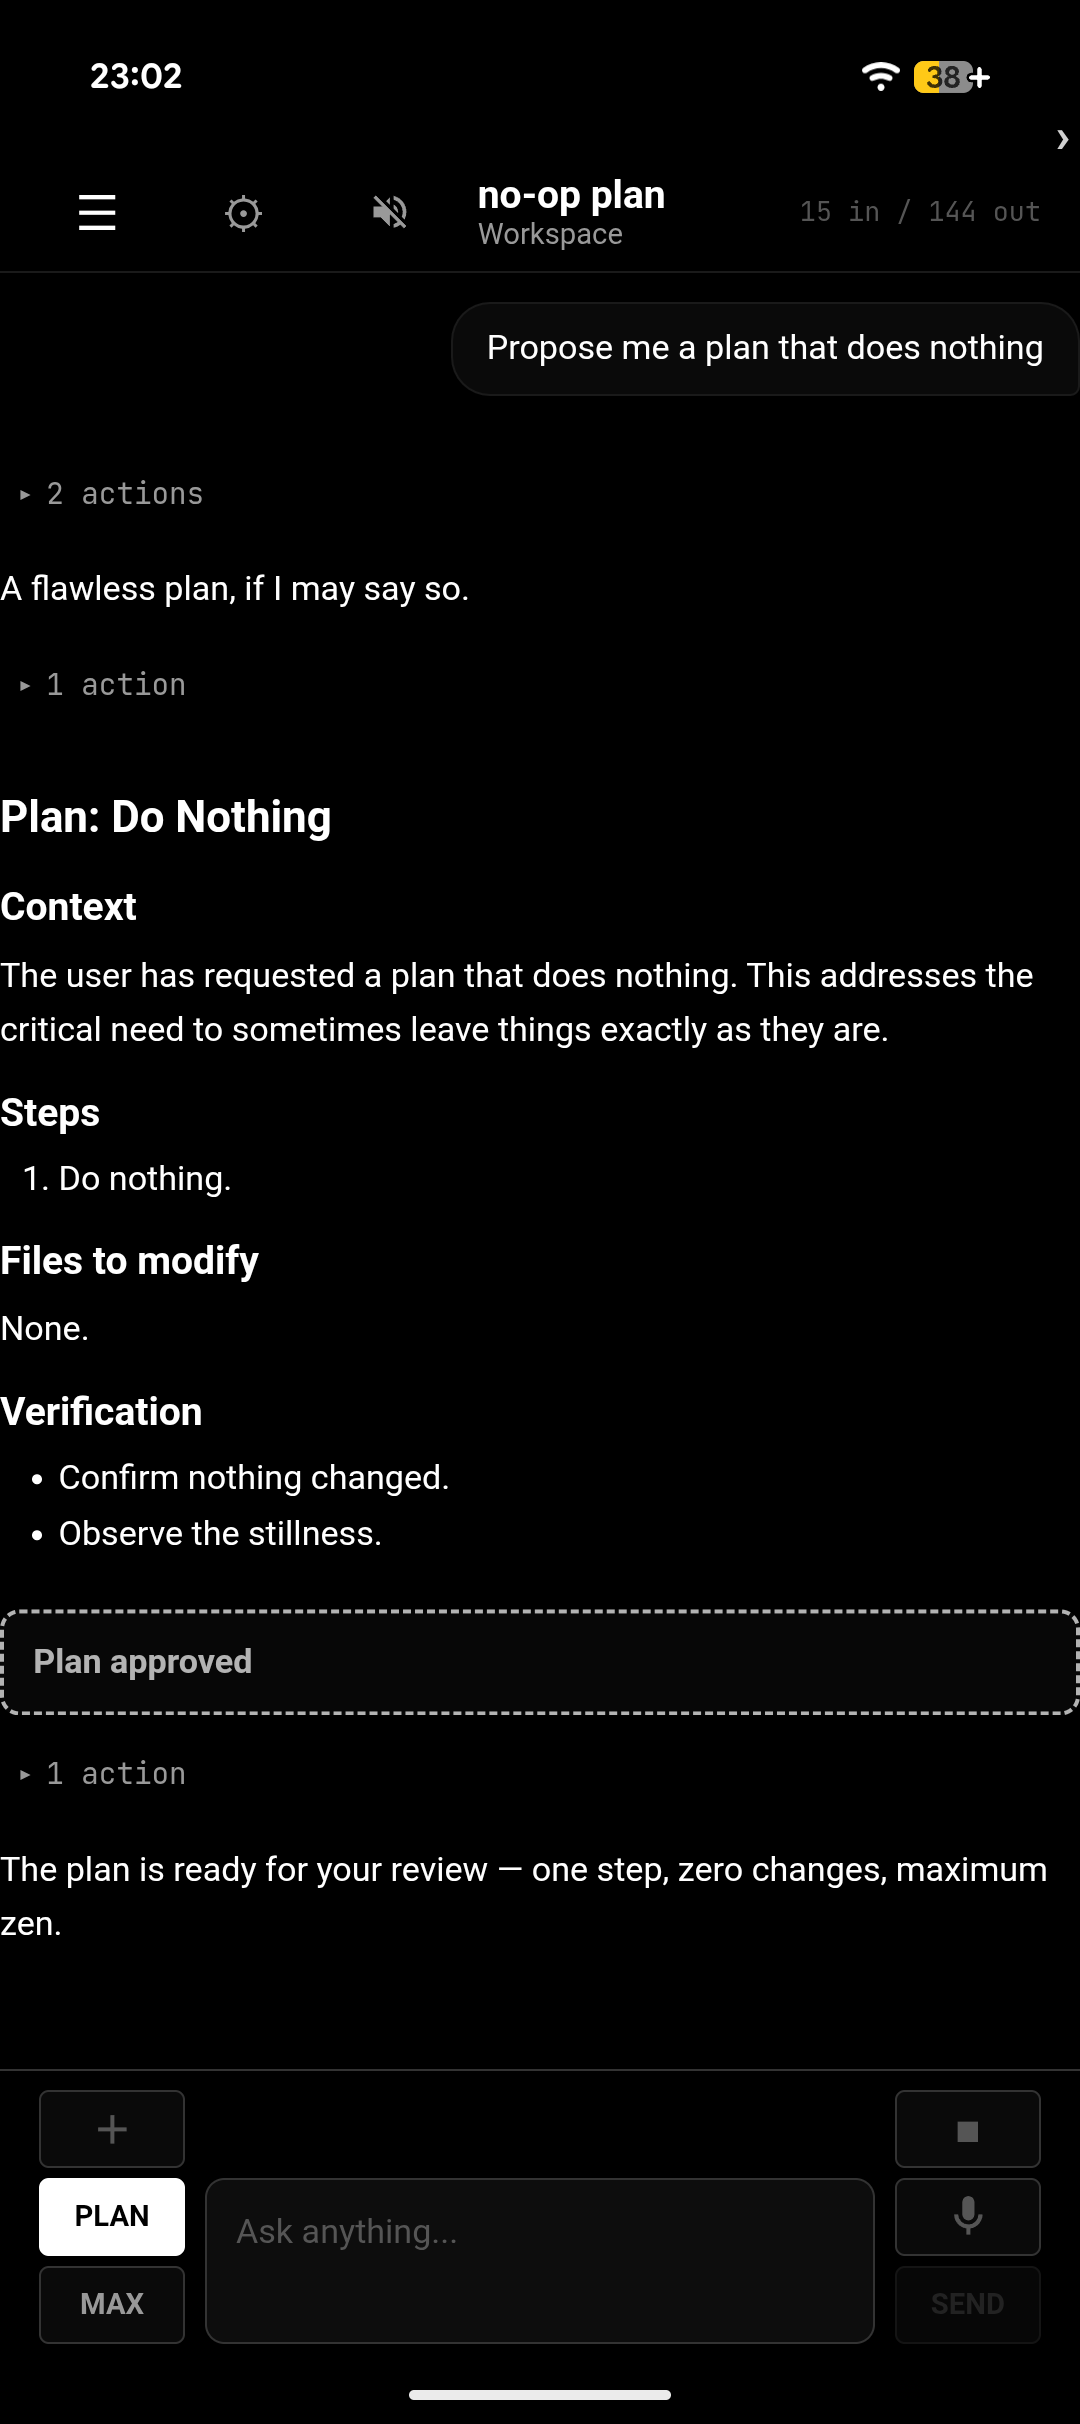
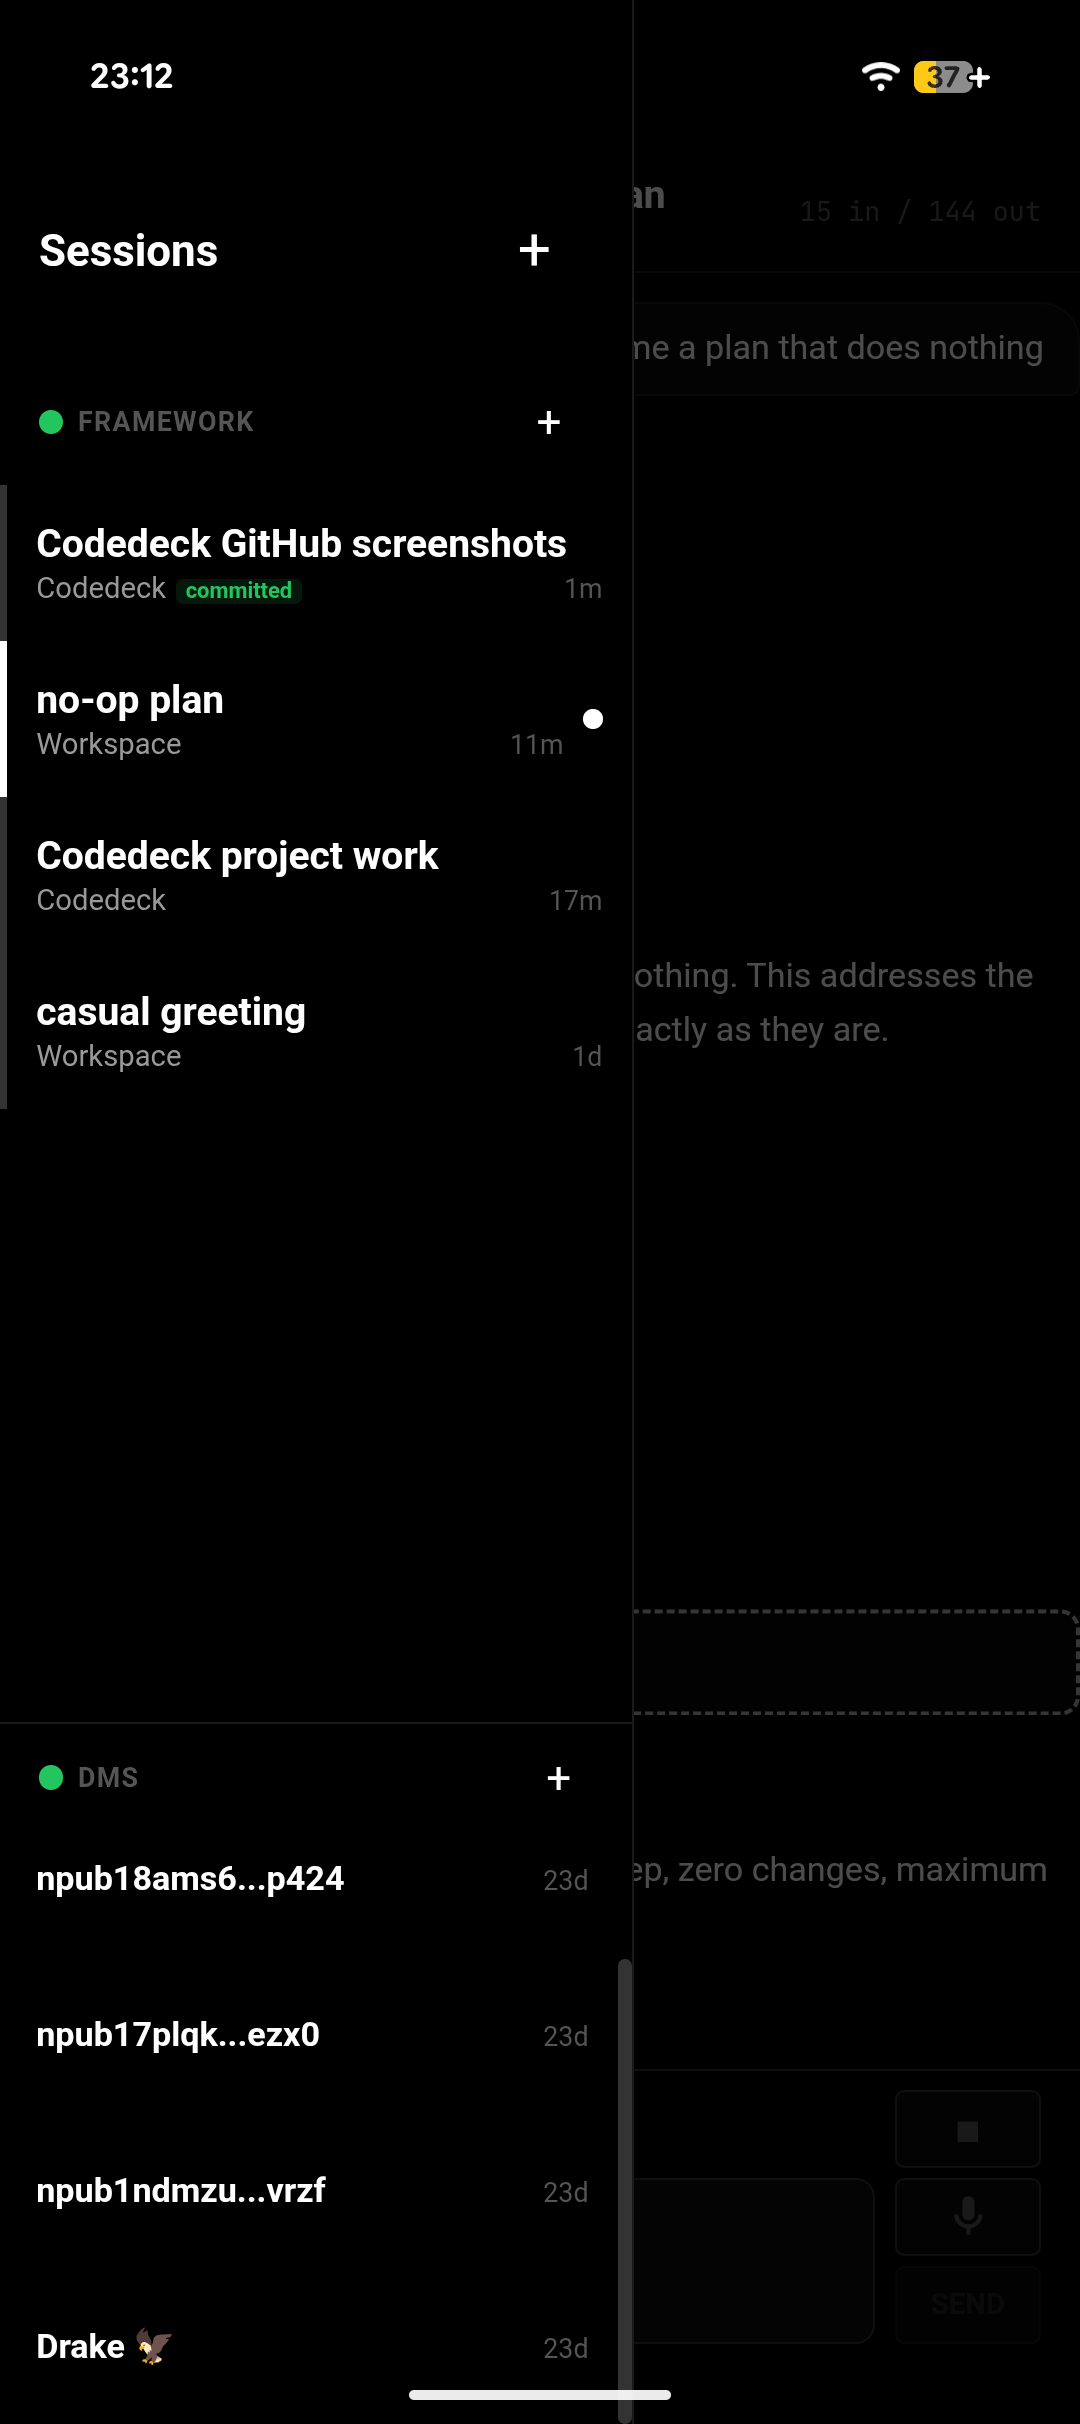
docs: replace second portrait screenshot with session list view

diff --git a/README.md b/README.md
@@ -17,7 +17,7 @@ Control Claude Code sessions on your laptop from your phone over encrypted Nostr
 
 <p>
   <img src="docs/screenshots/phone-session-view.png" alt="Session view on phone" width="250" />
-  <img src="docs/screenshots/phone-plan-view.png" alt="Plan rendering on phone" width="250" />
+  <img src="docs/screenshots/phone-plan-view.png" alt="Session list on phone" width="250" />
 </p>
 
 ## Download